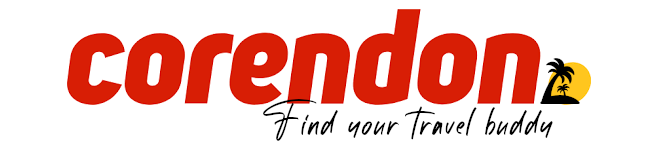
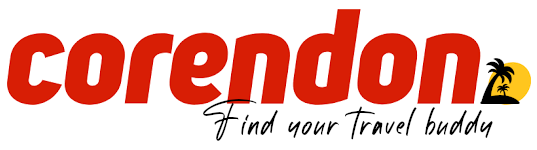
test dynamic header

Changed region(s): [[0.0, 0.0533, 1.0, 0.9333]]

diff --git a/Content/CSS/header.css b/Content/CSS/header.css
@@ -1,13 +1,23 @@
 /* Header */
-#banner-image{
-    height: 150px;
+#banner-image {
+    object-fit: contain;
+    width: 100%;
+    height: 100%;
+    max-height: 114px;
 }
 .main-banner {
-    display: flex;
-    justify-content: center;
-    position: relative;
-}
 
+}
+@media screen and (max-width: 1000px) {
+    header {
+        margin-left: auto;
+        margin-right: auto;
+        width: 100%;
+        min-height: 214px;
+        max-height: 214px;
+    }
+
+}
 .main-menu {
     display: flex;
     justify-content: center;

diff --git a/Content/CSS/default.css b/Content/CSS/default.css
@@ -22,7 +22,10 @@
 }
 
 header {
+  margin-left: auto;
+  margin-right: auto;
   min-height: 214px;
+  max-width: 800px;
 }
 
 body {
